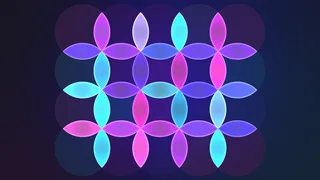
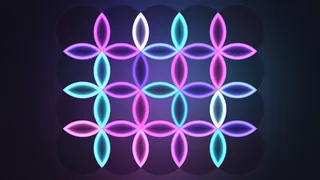
Más cerca de las referencias: Esfera como degradado suave, Cápsulas de bordes suaves, Vitral con bloques de vidrio esmerilado, Lentes de neón sobre luz de colores y Globos que se tiñen con la luz
Claude-Session: https://claude.ai/code/session_0196GyQFunpP2YdAEnvtnEqf

diff --git a/index.html b/index.html
@@ -9095,13 +9095,17 @@ function sphereSetup() {
       vec2 uv = .5 + q * .42 / (.55 + .45 * z);
       // el borde separa un poco los colores, como un prisma
       float ch = .008 + uP * .045 + uRim * .02;   // el golpe separa los colores como un prisma
-      vec3 inner = vec3(coverAt(uv * (1. - ch) + .5 * ch).r, coverAt(uv).g, coverAt(uv * (1. + ch) - .5 * ch).b);
+      // la portada se difumina hasta volverse un degradado de sus colores (como las esferas de las referencias)
+      vec3 inner = vec3(0.);
+      for (int k = 0; k < 12; k++) { float an = float(k) * 2.399, rb = sqrt(float(k) / 12.) * .09; vec2 o2 = vec2(cos(an), sin(an)) * rb;
+        inner += vec3(coverAt(uv * (1. - ch) + .5 * ch + o2).r, coverAt(uv + o2).g, coverAt(uv * (1. + ch) - .5 * ch + o2).b); }
+      inner /= 12.;
       inner = mix(vec3(dot(inner, vec3(.3, .59, .11))), inner, 1.35);   // más color
       inner *= (.62 + .3 * z) * (.75 + uRim * .25 + uP * .2);   // volumen; se enciende con el golpe
       inner += vec3(1.) * exp(-dot(p - vec2(-.35, .38), p - vec2(-.35, .38)) * 6.) * (.18 + uHi * .25);   // luz suave arriba
       float rim = exp(-pow((r - .97) * 16., 2.));
       inner += mix(uMel, vec3(1.), .4) * rim * (.25 + uRim * .7);
-      float edge = smoothstep(1.02, .9, r);    // borde suave, como fuera de foco
+      float edge = smoothstep(1.06, .84, r);   // borde muy suave, como fuera de foco
       col = mix(col, inner, edge);
       col += (h(gl_FragCoord.xy + uTime) - .5) * (uNight > .5 ? .05 : .04);   // grano fino de papel
       o = vec4(col, 1.);
@@ -9160,18 +9164,19 @@ function capsSetup() {
     float h(vec2 p) { return fract(sin(dot(p, vec2(127.1, 311.7))) * 43758.5453); }
     vec3 ramp(float t) {   // los colores de la canción en ciclo, con una franja honda entre ellos
       t = fract(t) * 4.; float f = smoothstep(0., 1., fract(t)); int i = int(t);
-      vec3 a = i == 0 ? uC0 : i == 1 ? uC1 : i == 2 ? uDeep : uC2, b = i == 0 ? uC1 : i == 1 ? uDeep : i == 2 ? uC2 : uC0;
+      vec3 dp = mix(uDeep, uC1, .35);   // la franja honda, menos dura
+      vec3 a = i == 0 ? uC0 : i == 1 ? uC1 : i == 2 ? dp : uC2, b = i == 0 ? uC1 : i == 1 ? dp : i == 2 ? uC2 : uC0;
       return mix(a, b, f);
     }
     void main() {
       float asp = uRes.x / uRes.y; vec2 p = vec2(vUv.x * asp, vUv.y);
-      vec3 col = mix(uBg, withCover(uBg), .4);   // fondo limpio, con la portada apenas presente
+      vec3 col = mix(uBg, withCover(uBg), .18);   // fondo liso, con la portada apenas presente
       for (int i = 0; i < 9; i++) {
         if (i >= uN) break;
         vec4 c = uCap[i], g = uG[i];
         vec2 d = p - c.xy; vec2 qd = vec2(abs(d.x), max(abs(d.y) - (c.w - c.z), 0.));
         float sd = length(qd) - c.z;                         // distancia a una cápsula (rectángulo de puntas redondas)
-        float a = smoothstep(.012, -.006, sd);                // borde suave, como vidrio esmerilado
+        float a = smoothstep(.018, -.012, sd);                // borde suave, como fuera de foco
         float sh = exp(-max(sd, 0.) * 40.) * (1. - a) * .12;  // sombra suave alrededor
         col *= 1. - sh * (uNight > .5 ? 1.6 : 1.);
         if (a <= 0.) continue;
@@ -9181,7 +9186,7 @@ function capsSetup() {
         float cx = d.x / c.z;                                 // de -1 a 1 a lo ancho: volumen de cilindro
         k *= .62 + .22 * sqrt(max(0., 1. - cx * cx)) + g.y * .6 + uP * .25;
         k += vec3(1.) * exp(-pow((cx + .45) * 3.2, 2.)) * .12;               // brillo vertical de vidrio
-        k = mix(k, vec3(1.), smoothstep(-.02, 0., sd) * .35);                // filo claro
+        k = mix(k, vec3(1.), smoothstep(-.03, 0., sd) * .22);                // filo claro, sutil
         col = mix(col, k, a * (.88 + g.y * .12));
       }
       col += (h(gl_FragCoord.xy + uTime) - .5) * .04;
@@ -9297,7 +9302,7 @@ function vitSetup() {
     float h(vec2 p) { return fract(sin(dot(p, vec2(127.1, 311.7))) * 43758.5453); }
     vec3 scene(vec2 p, vec2 uv) {
       vec3 sky = mix(uBot, uTop, smoothstep(0., 1., uv.y));
-      sky = mix(sky, withCover(sky), .45);
+      sky = mix(sky, withCover(sky), .14);   // la portada, apenas
       vec2 c = vec2(.42 * uRes.x / uRes.y, uY); float d = length(p - c) / uR;
       vec3 sun = mix(uSun, uSun2, smoothstep(.2, 1., (c.y - p.y) / uR * .5 + .5));   // más hondo abajo
       sun *= .85 + .2 * sqrt(max(0., 1. - d * d));
@@ -9314,18 +9319,23 @@ function vitSetup() {
         vec2 cell = floor((p - vec2(uX0, 0.)) / uCell), lc = (p - vec2(uX0, 0.)) / uCell - cell - .5;
         int ci = int(clamp(cell.x, 0., 11.)); float lv = uLv[ci];
         // cada cuadro amplía e invierte lo de atrás (como una gota de vidrio) y lo difumina
-        vec2 off = -lc * uCell * (1.6 + uWob * .4) + vec2(0., sin(cell.x * 1.7 + uTime * 2.) * uWob * .012);
+        // cada cuadro muestra lo de atrás ampliado y muy difuminado (una mancha de luz suave, como vidrio esmerilado)
+        vec2 off = -lc * uCell * (1.1 + uWob * .35) + vec2(0., sin(cell.x * 1.7 + uTime * 2.) * uWob * .01);
         vec3 acc = vec3(0.);
-        for (int k = 0; k < 9; k++) { float an = float(k) * 2.399, rr = sqrt(float(k) / 9.) * .028; vec2 o2 = vec2(cos(an), sin(an)) * rr; acc += scene(p + off + o2, vUv + vec2(o2.x / asp, o2.y)); }
-        col = acc / 9.;
-        col = mix(col, col * 1.08 + .03, .5);
+        for (int k = 0; k < 16; k++) { float an = float(k) * 2.399, rr = sqrt(float(k) / 16.) * .05; vec2 o2 = vec2(cos(an), sin(an)) * rr; acc += scene(p + off + o2, vUv + vec2(o2.x / asp, o2.y)); }
+        col = acc / 16.;
+        col = mix(col, vec3(1.), .04) * 1.04;   // esmerilado
+        // cada bloque de vidrio tiene volumen: más claro arriba, más hondo abajo, y un brillo suave arriba a la izquierda
+        col *= .82 + .32 * (.5 - lc.y * .9);
+        col += exp(-dot(lc - vec2(-.25, .3), lc - vec2(-.25, .3)) * 9.) * .06;
         // canto del cuadro: filo de luz arriba-izquierda y sombra abajo-derecha (relieve del vidrio)
-        float e = max(abs(lc.x), abs(lc.y));
-        float bev = smoothstep(.44, .5, e);
-        float lit = (lc.y > 0. || lc.x < 0.) ? 1. : -1.;
-        col += bev * lit * (.02 + lv * .3 + uP * .06);             // el canto se enciende con su parte del sonido
-        col += smoothstep(.49, .5, e) * (.015 + lv * .2);
-        col *= .9 + lv * .25;
+        // líneas finas y limpias entre cuadros: claras arriba-izquierda, hondas abajo-derecha
+        float px = 1.5 / uRes.y / uCell;
+        float top = smoothstep(.5 - px * 1.5, .5, lc.y), left = smoothstep(.5 - px * 1.5, .5, -lc.x);
+        float bot = smoothstep(.5 - px * 1.5, .5, -lc.y), right = smoothstep(.5 - px * 1.5, .5, lc.x);
+        col += max(top, left) * (.08 + lv * .25 + uP * .05);
+        col -= max(bot, right) * .06;
+        col *= .94 + lv * .2;   // cada columna se ilumina con su parte del sonido
       }
       col += (h(gl_FragCoord.xy + uTime) - .5) * .035;
       o = vec4(col, 1.);
@@ -9383,14 +9393,16 @@ function lensSetup() {
         if (d < d1) { d2 = d1; i2 = i1; d1 = d; i1 = id; } else if (d < d2) { d2 = d; i2 = id; }
       }
       vec2 cc = vec2(asp, 1.) * .5; float rc = length(p - cc);
-      vec3 col = mix(uBg, withCover(uBg), .5);
-      col += uGlow * exp(-rc * rc * 5.) * (.55 + uP * .4);                 // el resplandor del centro
+      vec3 col = mix(uBg, withCover(uBg), .12);
+      // detrás, una gran luz de colores (como en la referencia): tres focos de la canción que se mezclan
+      for (int k = 0; k < 3; k++) { float an = uRot * 2. + float(k) * 2.094; vec2 fp = cc + vec2(cos(an), sin(an)) * .16; float fd = length(p - fp);
+        col += pal(float(k) / 3.) * exp(-fd * fd * 7.) * (.45 + uP * .35); }
       float in1 = smoothstep(uR, uR - .003, d1), in2 = smoothstep(uR, uR - .003, d2);
       if (in1 > 0.) {
         // vidrio oscuro tintado del círculo
         vec3 tint = pal(h1(i1.x * 7. + i1.y * 13.) + uRot);
-        col = mix(col, col * .55 + tint * .18, in1 * .85);
-        col += tint * smoothstep(uR - .004, uR, d1) * .25 * in1;            // su borde fino
+        col = mix(col, col * .5 + tint * .05, in1 * .9);                    // vidrio oscuro
+        col += mix(tint, vec3(1.), .3) * exp(-(uR - d1) / uR * 60.) * .22 * in1;   // su canto fino
       }
       if (in2 > 0.) {
         // la lente: donde se cruzan dos círculos, encendida con su parte del sonido
@@ -9400,10 +9412,12 @@ function lensSetup() {
         vec2 mid = (c0 + i1 * uD + c0 + i2 * uD) * .5; float rr = length(p - mid) / (uR * .5);
         float wv = uWaveK * exp(-pow((length(mid - cc) - uWave) * 6., 2.));
         float edge = min(uR - d1, uR - d2) / uR;                            // cerca del filo de la lente
-        // neón: hondo y saturado por dentro, encendido hacia el filo, con un punto de luz en el centro
-        vec3 lensC = k * (.1 + .35 * smoothstep(.0, 1., rr) + lv * 1.2 + wv * 1. + uP * .3);
-        lensC += mix(k, vec3(1.), .55) * exp(-edge * 55.) * (.3 + lv * 1.5 + wv * 1.4 + uP * .4);   // filo de neón
-        lensC += mix(k, vec3(1.), .6) * exp(-rr * rr * 3.) * .18 * (1. + lv);
+        // como en la referencia: un filo casi blanco, una franja de color saturado y el centro más tenue
+        float I = .3 + lv * 1.1 + wv * .9 + uP * .25;
+        vec3 lensC = col * .35 + k * .18 * I;
+        lensC += mix(k, vec3(1.), .45) * exp(-edge * 80.) * .8 * min(I, 1.3);            // filo claro encendido (sin quemarse)
+        lensC += k * exp(-pow((edge - .07) * 22., 2.)) * 1.2 * I;                        // franja de color
+        lensC += k * smoothstep(.3, .0, edge) * .55 * I;   // el color llena la lente
         col = mix(col, lensC, in2);
       }
       col += (h(gl_FragCoord.xy + uTime) - .5) * .03;
@@ -9463,14 +9477,16 @@ function glbSetup() {
         col = mix(uHot, vec3(1., .96, .9), pow(n.z, 3.) * .35) * (.8 + .3 * uGlow);
       } else if (bi > 0) {
         vec4 s = uS[bi];
-        vec3 base = mix(uCool2, uCool, .5 + .5 * n.y);
-        float lam = .35 + .65 * max(0., dot(n, normalize(vec3(-.4, .5, .8))));
-        // la luz cálida de la esfera de luz, en el lado que la mira
-        vec2 toL = L - s.xy; float dl = length(toL);
-        float facing = max(0., dot(n.xy, toL / max(dl, 1e-4)));
-        float warm = facing * exp(-max(0., dl - s.z - LR) * 4.) * uGlow;
-        col = base * lam + uHot * pow(facing, 2.) * warm * 1.1;
-        col += mix(uCool, vec3(1.), .4) * pow(1. - n.z, 4.) * .15;   // borde suave
+        // degradado suave de azul (más claro hacia arriba) y, en el lado que mira a la luz, un tinte cálido que se
+        // funde en rosa: la luz de la esfera se refleja en las vecinas, como en la referencia
+        vec2 toL = L - s.xy; float dl = length(toL); vec2 dir = toL / max(dl, 1e-4);
+        float facing = max(0., dot(n.xy, dir));
+        float warm = smoothstep(0., 1., facing) * exp(-max(0., dl - s.z - LR) * 2.4) * uGlow;
+        vec3 base = mix(uCool2, uCool, smoothstep(-.8, .9, n.y * .7 + n.z * .4));
+        col = base * (.75 + .25 * n.z);
+        vec3 warmC = mix(uHot, mix(uHot, uCool, .5), .35 + .35 * (1. - facing));
+        col = mix(col, warmC, clamp(warm * 1.25, 0., .92));
+        col += mix(uCool, vec3(1.), .5) * pow(1. - n.z, 5.) * .1;
       }
       col += (h(gl_FragCoord.xy + uTime) - .5) * .03;
       o = vec4(col, 1.);

diff --git a/sw.js b/sw.js
@@ -1,7 +1,7 @@
 // Permite instalar la página como app y abrirla sin conexión.
 // La página se pide primero a la red (así siempre llega la última versión) y, si no hay
 // conexión, se usa la copia guardada. Las imágenes se sirven desde la copia y se renuevan por detrás.
-const CACHE = 'siente-v76';
+const CACHE = 'siente-v77';
 const CORE = ['./', 'index.html', 'manifest.webmanifest', 'icons/icon.svg', 'icons/icon-192.png', 'icons/icon-512.png'];
 
 self.addEventListener('install', e => {
